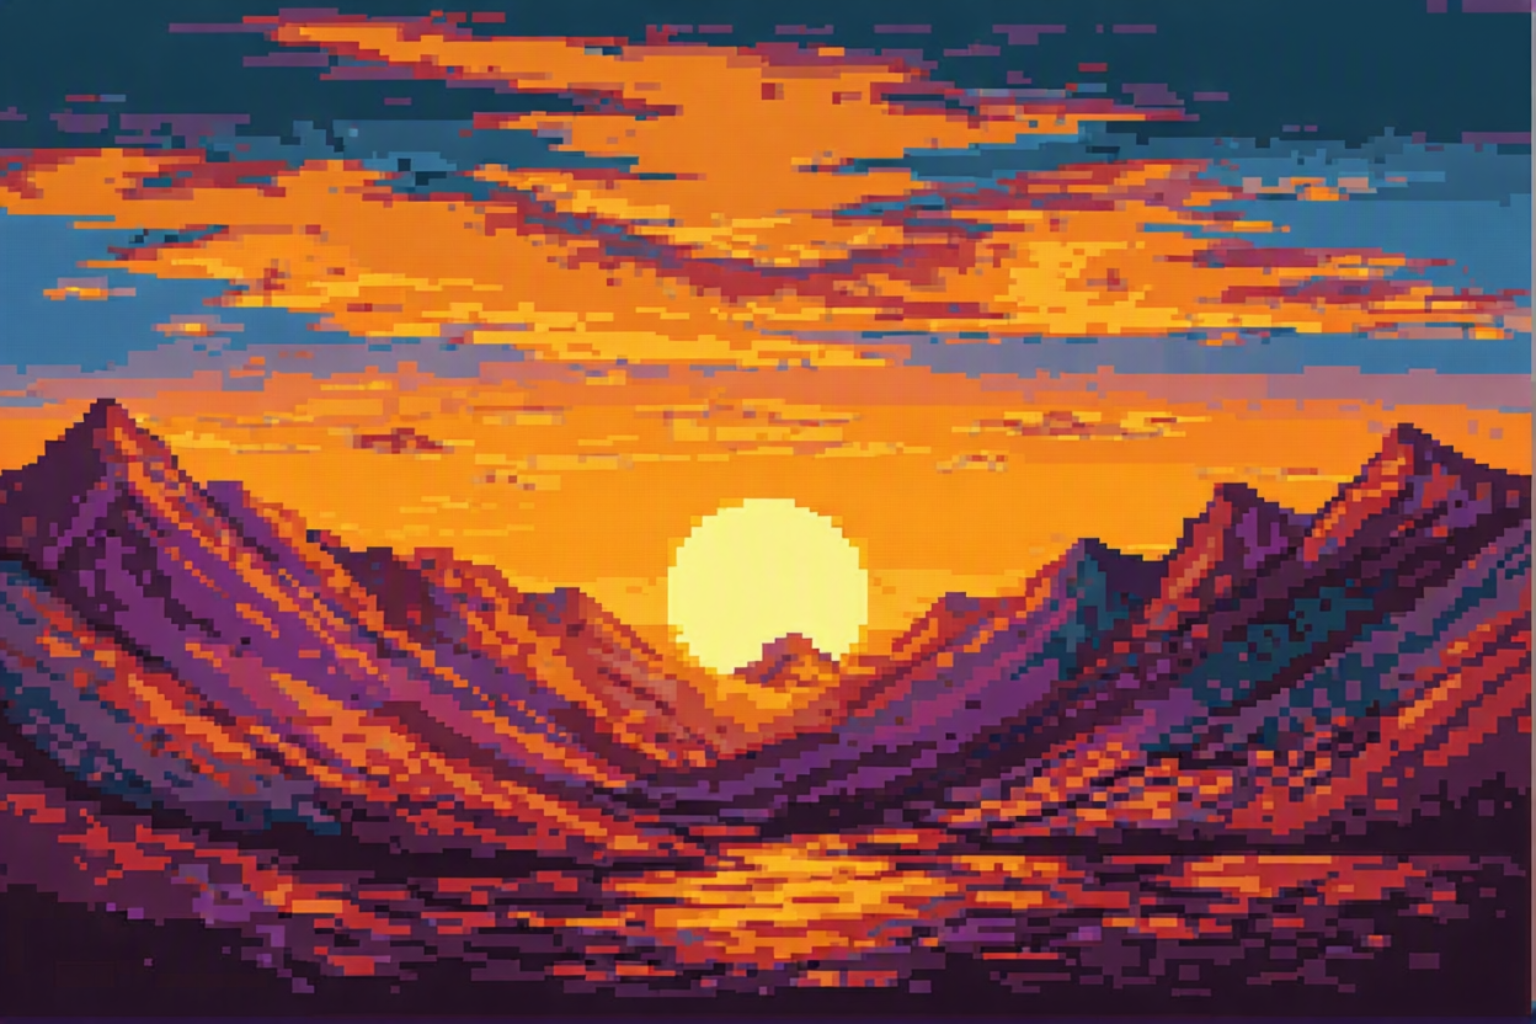
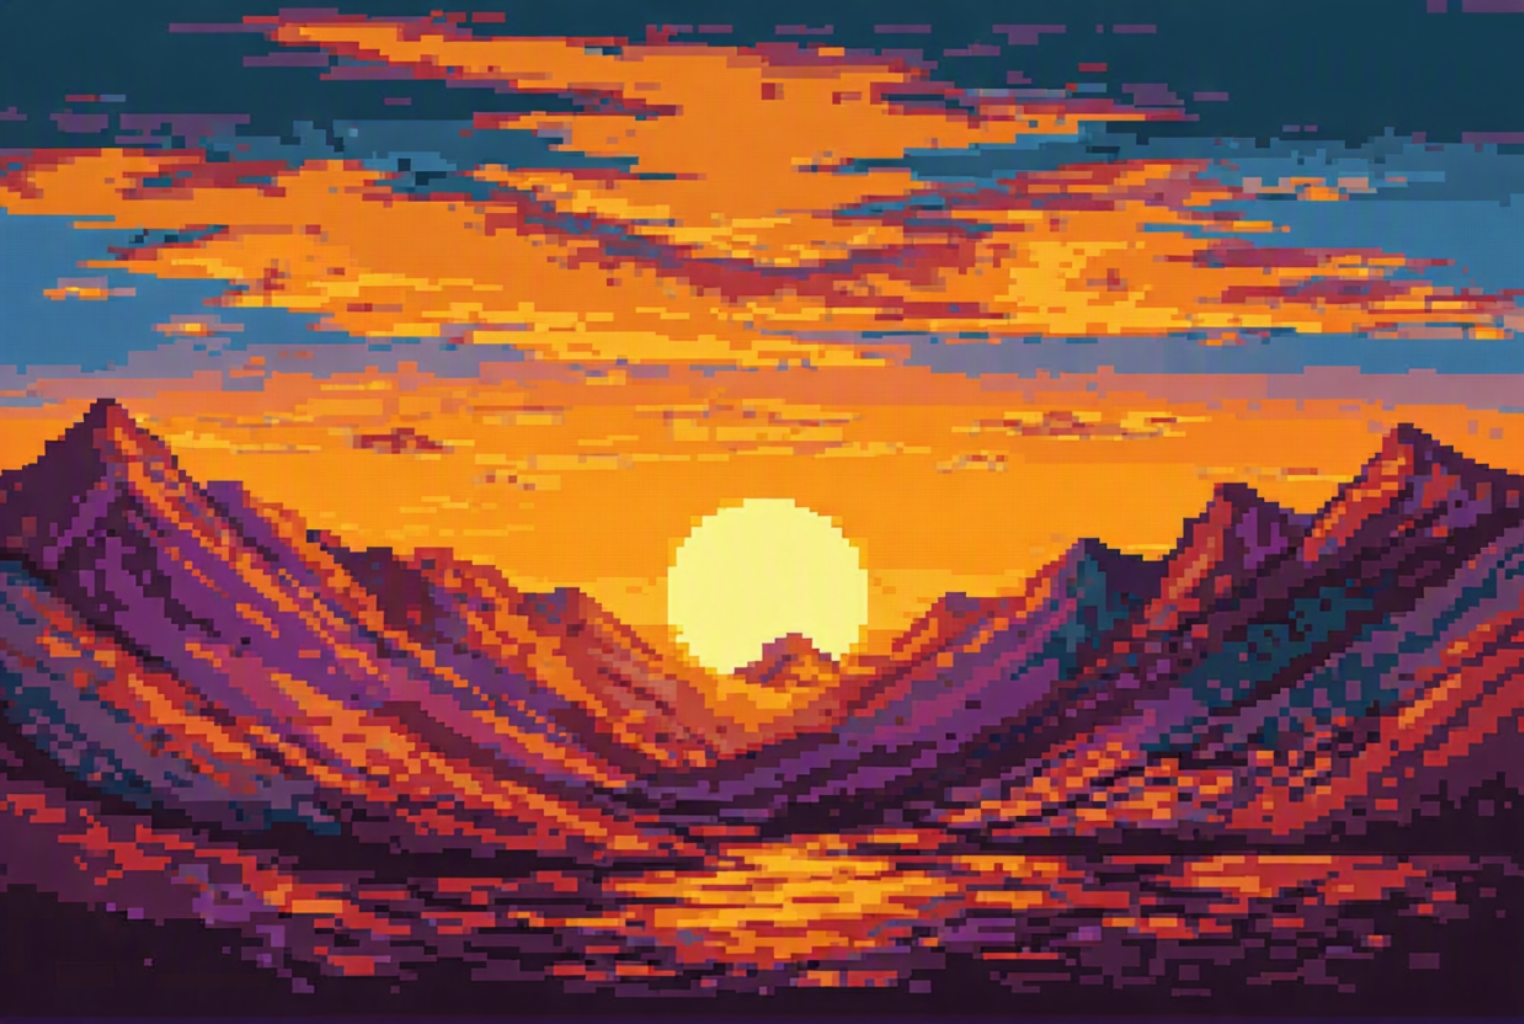
ui fixing .3 + hitStunDuration

diff --git a/Assets/Scripts/Movement.cs b/Assets/Scripts/Movement.cs
@@ -5,6 +5,7 @@ using UnityEngine;
 
 public class Movement : MonoBehaviour
 {
+
     #region variables
 
     public bool debug;
@@ -67,8 +68,6 @@ public class Movement : MonoBehaviour
     private float prevPos;
     private float currentPos;
     private int direction;
-
-    public bool isPressingButton;
 
     #endregion variables
 
@@ -193,8 +192,6 @@ public class Movement : MonoBehaviour
 
         GetIsGrounded();
 
-        isPressingButton = horizontal != 0f || shiftPressed || downPressed || dashPressed || upArrowPressed;
-
         prevPos = currentPos;
         currentPos = transform.position.z;
 
@@ -237,7 +234,7 @@ public class Movement : MonoBehaviour
             CancelCrouch();
         }
 
-        if (prevPos == currentPos && !isCrouching && isGrounded && !isPressingButton)
+        if (prevPos == currentPos && !isCrouching && isGrounded)
         {
             StartCoroutine(GradualDecrease());
         }
@@ -579,14 +576,22 @@ public class Movement : MonoBehaviour
 
     private bool GetIsGrounded()
     {
-        int groundMask = ~playerLayer;
+        int groundMask = ~playerLayer.value;
         isGrounded = Physics.Raycast(transform.position, Vector3.down, 1f, groundMask);
         Debug.DrawRay(transform.position, Vector3.down * 1f, Color.black);
 
         if (isGrounded)
         {
+            animator.SetBool("isGrounded", true);
             backwardSpeedMod = 0.6f;
         }
+        else
+        {
+            //animator.SetTrigger("isFalling");
+            //animator.Play("Base Layer.Falling"); 
+        }
+
+        // print(isGrounded);
 
         animator.SetBool("isGrounded", isGrounded);
         return isGrounded;
@@ -693,7 +698,7 @@ public class Movement : MonoBehaviour
 
     private void Crouch(bool downpressed)
     {
-     
+
         if (!isGrounded)
         {
             crouchSpeedMod = 1;
@@ -959,8 +964,6 @@ public class Movement : MonoBehaviour
         {
             return;
         }
-
-        animator.SetBool("isCrouching", false);
         animator.SetTrigger("Jump");
         //animator.Play("Jumping");
         backwardSpeedMod = 1f;
@@ -1015,23 +1018,12 @@ public class Movement : MonoBehaviour
         if (animator.runtimeAnimatorController == OGanim)
         {
             animator.runtimeAnimatorController = reverseAnim;
-
-            if (!isGrounded)
-            {
-                animator.Play("Base Layer.Falling");
-            }
-
             return;
         }
 
         if (animator.runtimeAnimatorController == reverseAnim)
         {
             animator.runtimeAnimatorController = OGanim;
-
-            if (!isGrounded)
-            {
-                animator.Play("Base Layer.Falling");
-            }
         }
 
         // }
@@ -1083,13 +1075,12 @@ public class Movement : MonoBehaviour
         {
             yield return new WaitForSeconds(0.1f);
         }
-        yield return new WaitForSeconds(0.5f);
+        yield return new WaitForSeconds(playerHealth.lastHitStunDuration);
         hitStop = 1;
     }
 
     private void SetupNextRound()
     {
-
         gameTimer.timeUpText.gameObject.SetActive(false);
 
         if (playerNumber == 1)
@@ -1099,7 +1090,6 @@ public class Movement : MonoBehaviour
             transform.localEulerAngles = regularRo;
             dashForce = 5;
         }
-
 
         if (playerNumber == 2)
         {
@@ -1113,7 +1103,6 @@ public class Movement : MonoBehaviour
 
         animator.SetBool("Knockout", false);
         animator.Play("Base Layer.Blend Tree");
-
 
         if (gameTimer.timeUp)
         {

diff --git a/Assets/Scripts/Combat.cs b/Assets/Scripts/Combat.cs
@@ -1,10 +1,8 @@
 using System.Collections;
 using System.Collections.Generic;
 using UnityEngine;
-
 public class Combat : MonoBehaviour
 {
-
     public int playerNumber;
     public Animator animator;
     public string chosenAttack;
@@ -38,7 +36,6 @@ public class Combat : MonoBehaviour
             medKick = Input.GetKeyDown(KeyCode.Keypad8);
             heavyKick = Input.GetKeyDown(KeyCode.Keypad9);
         }
-
         if (playerNumber == 1)
         {
             lightPunch = Input.GetKeyDown(KeyCode.Alpha4);
@@ -48,23 +45,19 @@ public class Combat : MonoBehaviour
             medKick = Input.GetKeyDown(KeyCode.T);
             heavyKick = Input.GetKeyDown(KeyCode.Y);
         }
-
         if (delayLength > 0)
         {
             delayLength -= Time.deltaTime;
             return;
         }
-
         if (allowCombat == false)
         {
             return;
         }
-
         if (pm.paused)
         {
             return;
         }
-
         if (lightPunch) LPunch(lightPunch);
         if (medPunch) MPunch(medPunch);
         if (heavyPunch) HPunch(heavyPunch);
@@ -78,8 +71,8 @@ public class Combat : MonoBehaviour
         animator.SetBool("LPunch", true);
         animator.Play("Base Layer.LPunch");
         animator.SetBool("LPunch", false);
-        delayLength = 0.3f;
-        
+        delayLength = 0.37f;
+
     }
 
     private void MPunch(bool medPunch)
@@ -87,8 +80,7 @@ public class Combat : MonoBehaviour
         animator.SetBool("MPunch", true);
         animator.Play("Base Layer.MPunch");
         animator.SetBool("MPunch", false);
-        delayLength = 0.6f;
-       
+        delayLength = 0.45f;
     }
 
     private void HPunch(bool heavyPunch)
@@ -96,33 +88,30 @@ public class Combat : MonoBehaviour
         animator.SetBool("HPunch", true);
         animator.Play("Base Layer.HPunch");
         animator.SetBool("HPunch", false);
-        delayLength = 1f;
-       
-    }
+        delayLength = 0.5f; 
 
+    }
     private void LKick(bool lightKick)
     {
         animator.SetBool("LKick", true);
         animator.Play("Base Layer.LKick");
         animator.SetBool("LKick", false);
-        delayLength = 0f;
+        delayLength = 0.37f; 
     }
-
     private void MKick(bool medKick)
     {
         animator.SetBool("MKick", true);
         animator.Play("Base Layer.MKick");
         animator.SetBool("MKick", false);
-        delayLength = 0.7f;
-    
-    }
+        delayLength = 0.45f;
 
+    }
     private void HKick(bool heavyKick)
     {
         animator.SetBool("HKick", true);
         animator.Play("Base Layer.HKick");
         animator.SetBool("HKick", false);
-        delayLength = 1.1f;
-       
+        delayLength = 0.5f; 
+
     }
 }

diff --git a/Assets/Scripts/UI/ArenaUI/PlayerHealthManager.cs b/Assets/Scripts/UI/ArenaUI/PlayerHealthManager.cs
@@ -31,6 +31,7 @@ public class PlayerHealthManager : MonoBehaviour
     public bool hitDefended;
     public bool crouchBlockHit;
     public int losses = 0;
+    public float lastHitStunDuration = 0.5f;
 
     public GameObject otherPlayerWinSymbol1;
     public GameObject otherPlayerWinSymbol2;
@@ -85,6 +86,8 @@ public class PlayerHealthManager : MonoBehaviour
     public void PlayerHurt(AttackSO attackSO)
     {
         bool isUnblockable = attackSO.attackName == "HPunch" || attackSO.attackName == "HKick";
+
+        lastHitStunDuration = attackSO.hitStunDuration;
 
         if (playerMovement.isBlocking && hit && !isUnblockable)
         {
@@ -224,3 +227,4 @@ public class PlayerHealthManager : MonoBehaviour
         }
     }
 }
+

diff --git a/Assets/Scripts/AttackSO.cs b/Assets/Scripts/AttackSO.cs
@@ -7,4 +7,5 @@ public class AttackSO : ScriptableObject
 {
     public string attackName;
     public float damage;
+    public float hitStunDuration;
 }
